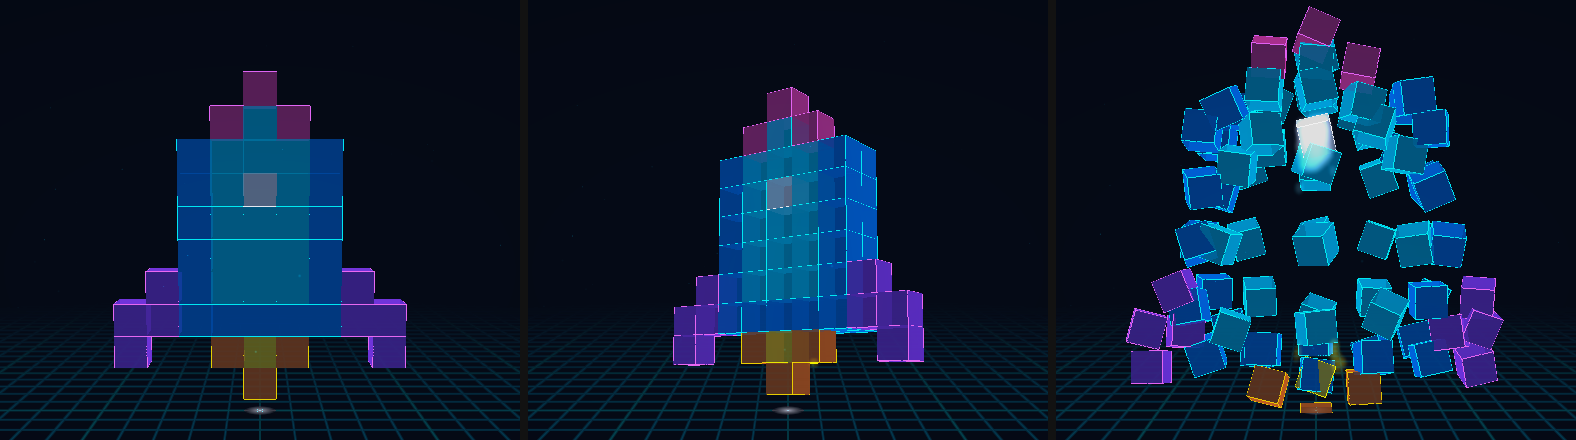
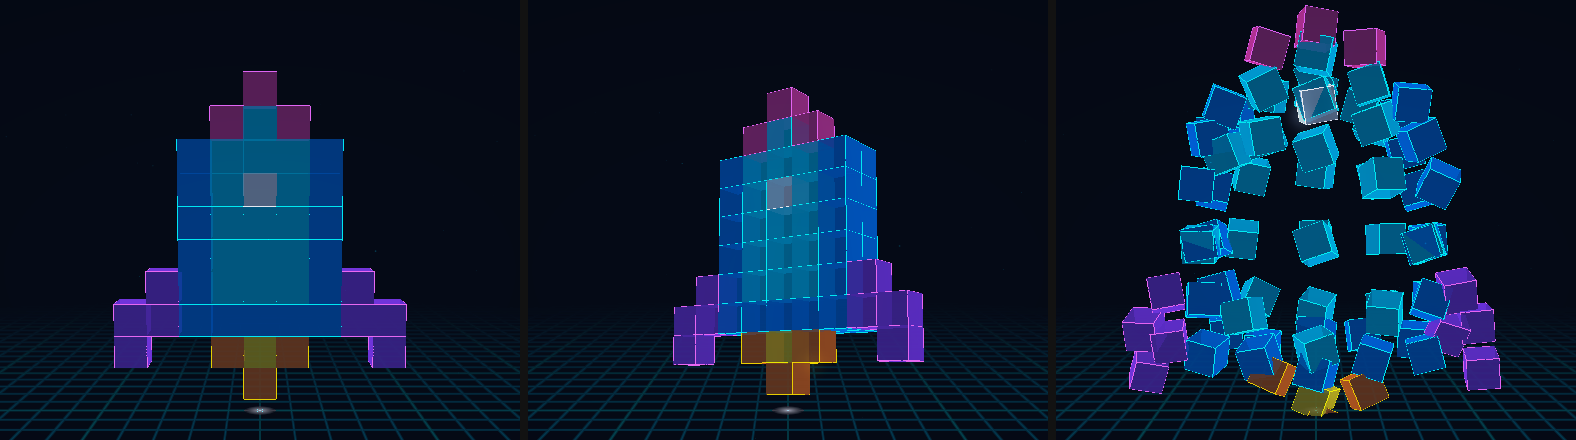
Fix bloom glow trail behind moving bright voxels
Alpha blending stayed enabled from the scene pass into the bloom
post-process passes. The bright-pass shader writes vec4(0) for dark
pixels, which is a no-op under SRC_ALPHA blending, so the bloom
buffers kept every bright pixel ever drawn: a moving white or gold
voxel left a permanent glow trail that grew as it moved.

Disable blending for the bloom passes and restore it for the final
composite. Measured bloom energy on the same scene after a
scatter/restore drops from 1525 to 0 (matching the pre-scatter frame).

tests/test_bloom.py moves a white voxel across the frame and asserts
its old position no longer blooms; it fails without the fix.
Regenerated the README demo GIF, render strip and social preview.

Changed region(s): [[0.7151, 0.0, 0.9638, 0.9455], [0.9327, 0.8568, 0.9638, 0.8864]]

diff --git a/tests/test_bloom.py b/tests/test_bloom.py
@@ -1,0 +1,66 @@
+import os
+import sys
+import unittest
+
+import numpy as np
+
+PROJECT_ROOT = os.path.dirname(os.path.dirname(os.path.abspath(__file__)))
+if PROJECT_ROOT not in sys.path:
+    sys.path.insert(0, PROJECT_ROOT)
+
+import moderngl  # noqa: E402
+
+from config import CONFIG  # noqa: E402
+from voxel_engine import VoxelEngine  # noqa: E402
+
+try:
+    CTX = moderngl.create_standalone_context()
+except Exception as exc:  # no GPU / driver on this machine
+    CTX = None
+    NO_GL_REASON = str(exc)
+
+
+@unittest.skipIf(CTX is None, "no OpenGL 3.3 context available")
+class BloomBufferTests(unittest.TestCase):
+    """Bloom must reflect the current frame only.
+
+    Regression: alpha blending stayed on during the bloom passes, so dark
+    pixels (written as vec4(0)) never replaced old bright ones. A white voxel
+    that moved left a permanent, growing glow trail behind it.
+    """
+
+    def setUp(self):
+        from renderer import Renderer
+
+        self.renderer = Renderer(CTX, 640, 360)
+        self.renderer._render_final_composite = lambda ar_mode=False: None  # no window in tests
+        self.engine = VoxelEngine()
+
+    def render(self, frames=3):
+        for _ in range(frames):
+            self.renderer.render(self.engine, 1 / 60)
+
+    def bright_columns(self):
+        """Columns (in half-res bloom space) that hold any extracted bright pixel."""
+        raw = self.renderer.bloom_texture.read()
+        img = np.frombuffer(raw, np.uint8).reshape(180, 320, 4)[:, :, :3]
+        return np.flatnonzero(img.max(axis=(0, 2)) > 0)
+
+    def test_bright_voxel_leaves_no_trail_after_moving(self):
+        white = CONFIG.colors.WHITE
+        self.engine.place_voxel((-6.0, 5.0, 0.0), color=white, record_history=False)
+        self.render()
+        before = self.bright_columns()
+        self.assertTrue(len(before) and before.max() < 160, "white voxel should bloom on the left half")
+
+        self.engine.delete_voxel(self.engine.world_to_grid((-6.0, 5.0, 0.0)), record_history=False)
+        self.engine.place_voxel((6.0, 5.0, 0.0), color=white, record_history=False)
+        self.render()
+        after = self.bright_columns()
+
+        self.assertTrue(len(after) and after.min() >= 160, "moved voxel should bloom on the right half")
+        self.assertEqual(int((after < 160).sum()), 0, "old position still glows: bloom buffer kept a stale frame")
+
+
+if __name__ == "__main__":
+    unittest.main()

diff --git a/renderer.py b/renderer.py
@@ -556,6 +556,11 @@ class Renderer:
     def _render_bloom(self):
         """Apply bloom post-processing."""
         self.ctx.disable(moderngl.DEPTH_TEST)
+        # Each pass must fully overwrite its target. The scene pass leaves alpha
+        # blending on, and under blending the extract shader's vec4(0) output for
+        # dark pixels is a no-op, so bright pixels from earlier frames never left
+        # the bloom buffers: moving white/gold voxels drew a growing glow trail.
+        self.ctx.disable(moderngl.BLEND)
         render_cfg = CONFIG.render
 
         # Extract bright pixels
@@ -585,6 +590,9 @@ class Renderer:
             self.blur_program['u_direction'].value = (0.0, 1.0)
             self.blur_program['u_resolution'].value = (self.width // 2, self.height // 2)
             self.blur_vao.render(moderngl.TRIANGLES)
+
+        # Restore the scene pass's state so the final composite is unchanged.
+        self.ctx.enable(moderngl.BLEND)
 
     def _render_final_composite(self, ar_mode: bool = False):
         """Render final composite to screen."""

diff --git a/tools/capture_readme_assets.py b/tools/capture_readme_assets.py
@@ -51,8 +51,7 @@ ROCKET = [
     "P..OYO..P",
     "....O....",
 ]
-# Colors from the app's own palette. Only one WHITE voxel: white is above the
-# bloom threshold, so a whole white hull washes the frame out.
+# Colors from the app's own palette; one WHITE voxel as a lit window.
 _c = CONFIG.colors
 PALETTE = {
     "R": _c.PINK, "W": _c.CYAN, "B": _c.BLUE, "C": _c.WHITE,

diff --git a/README.md b/README.md
@@ -82,7 +82,7 @@ python main.py
 
 Keep both hands in frame. Press `H` for the help overlay and `D` to see what the gesture recognizer thinks your hands are doing. Without a camera, the app starts anyway on a dark background (keyboard and saved scenes still work).
 
-Run the unit tests (no camera or GPU needed):
+Run the unit tests (no camera needed; the bloom test uses an offscreen OpenGL context and skips itself if none is available):
 
 ```bash
 python -m unittest discover -s tests
@@ -99,7 +99,7 @@ python tools/capture_readme_assets.py
 Developed on Windows 11 with Python 3.11.9 and an OpenGL 3.3 core context.
 
 **Verified working** (hand-tested by the author, see [progress.md](progress.md)): place, delete, grab, two-hand rotation, transform reset, full reset, color cycling, AR mode, save/load, OBJ export, undo/redo.
-**Covered by unit tests** ([tests/test_voxel_engine.py](tests/test_voxel_engine.py), 5 tests): clear and reset history, grab snapping with undo/redo, save/load round trip, disco color restore, rejection of malformed scene files.
+**Covered by unit tests** (6 tests in [tests/](tests/)): clear and reset history, grab snapping with undo/redo, save/load round trip, disco color restore, rejection of malformed scene files, and a renderer regression test that a moving bright voxel leaves no bloom trail.
 **Implemented but not re-verified:** disco mode gestures, scatter/restore by thumb gesture (the engine actions themselves are shown in the GIF above), symmetry mode, box selection.
 
 Not tested on macOS or Linux.
@@ -116,7 +116,7 @@ ui_renderer.py      webcam panel, HUD, cursors, particles
 utils.py            filters, ray casting, math helpers
 config.py           every tunable value (timers, thresholds, colors, camera)
 shaders/            GLSL for voxels, grid, bloom, HUD, particles
-tests/              voxel engine unit tests
+tests/              voxel engine + bloom regression tests
 tools/              README asset capture script
 ```
 

diff --git a/memory.md b/memory.md
@@ -97,6 +97,11 @@ Add null check: `if hand is None: return None` before any `.fingers_up`, `.is_pi
 - Bloom combine must early-out on transparent pixels
 - Preview must render in same pass as voxels (not separate UI pass)
 
+### "Glow trail follows a moving white/gold voxel and keeps growing" (fixed 2026-11-22)
+Post-process passes (bloom extract, blur) must run with `BLEND` disabled. With blending on, the extract
+shader's `vec4(0)` for dark pixels is a no-op, so bloom buffers keep every bright pixel ever drawn.
+`_render_bloom` disables blend, then re-enables it for the composite. Guarded by `tests/test_bloom.py`.
+
 ## Gesture Hold Times (config.py)
 
 | Gesture | Hold Time | Config Key |
